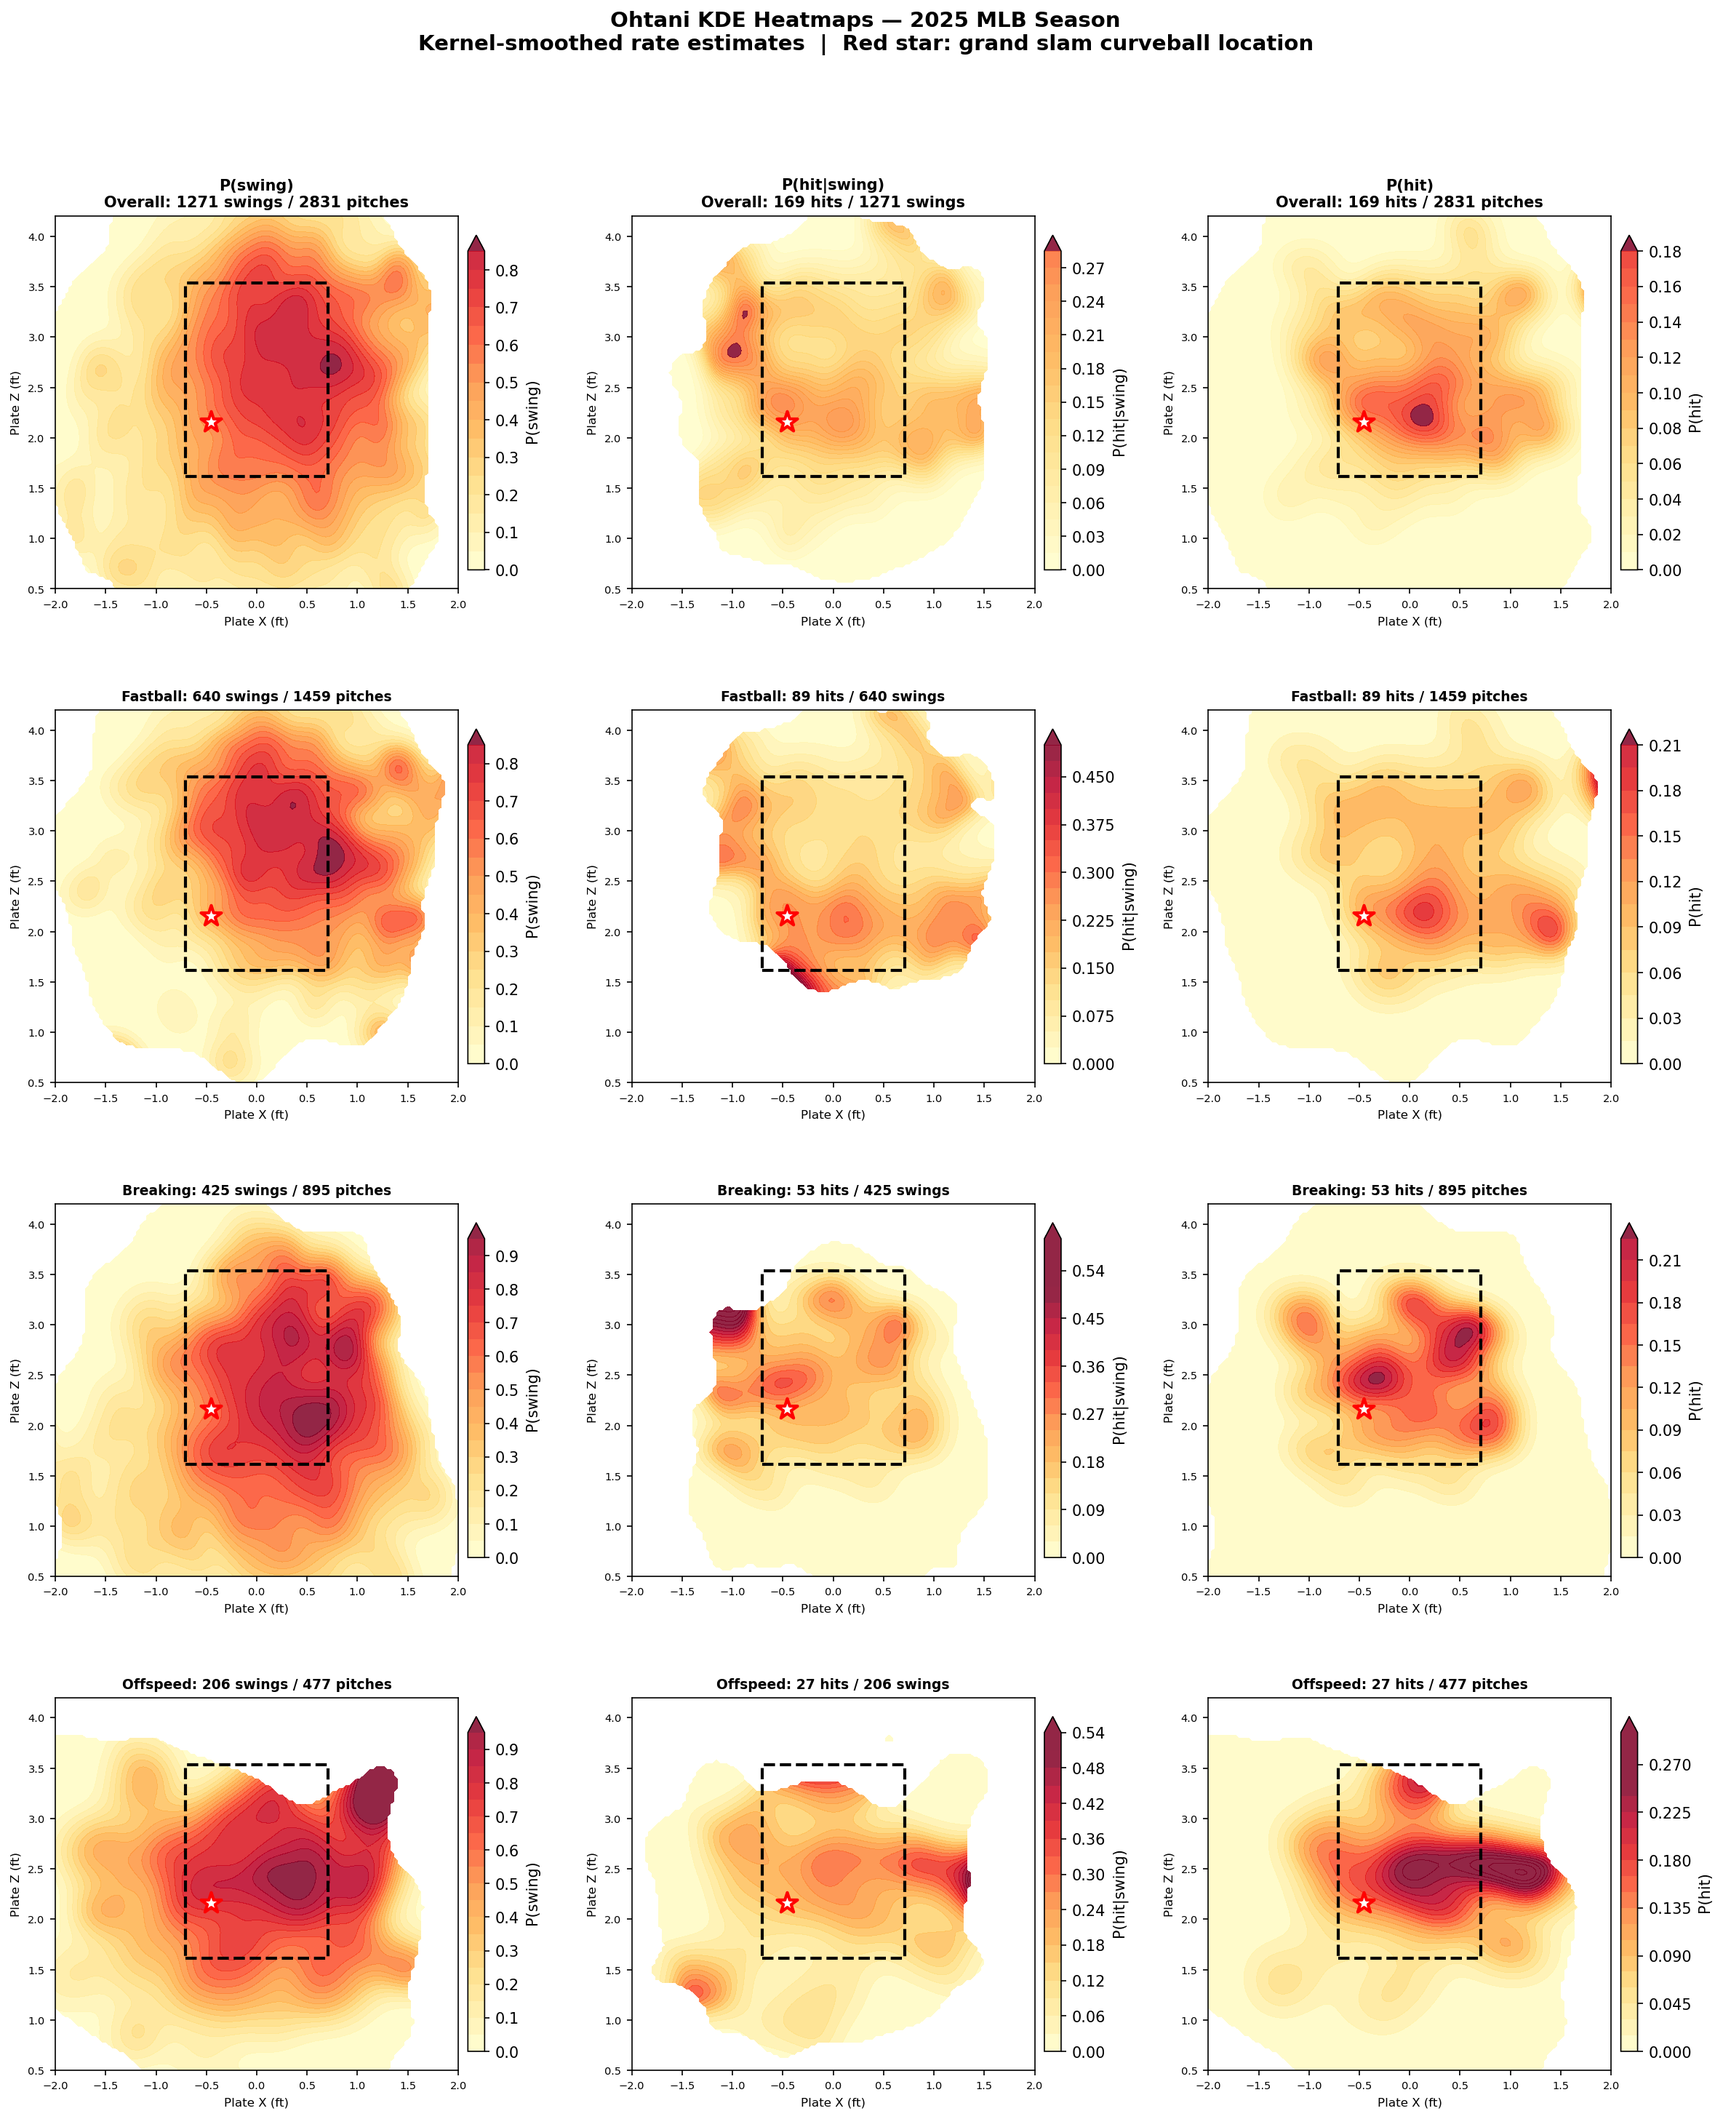
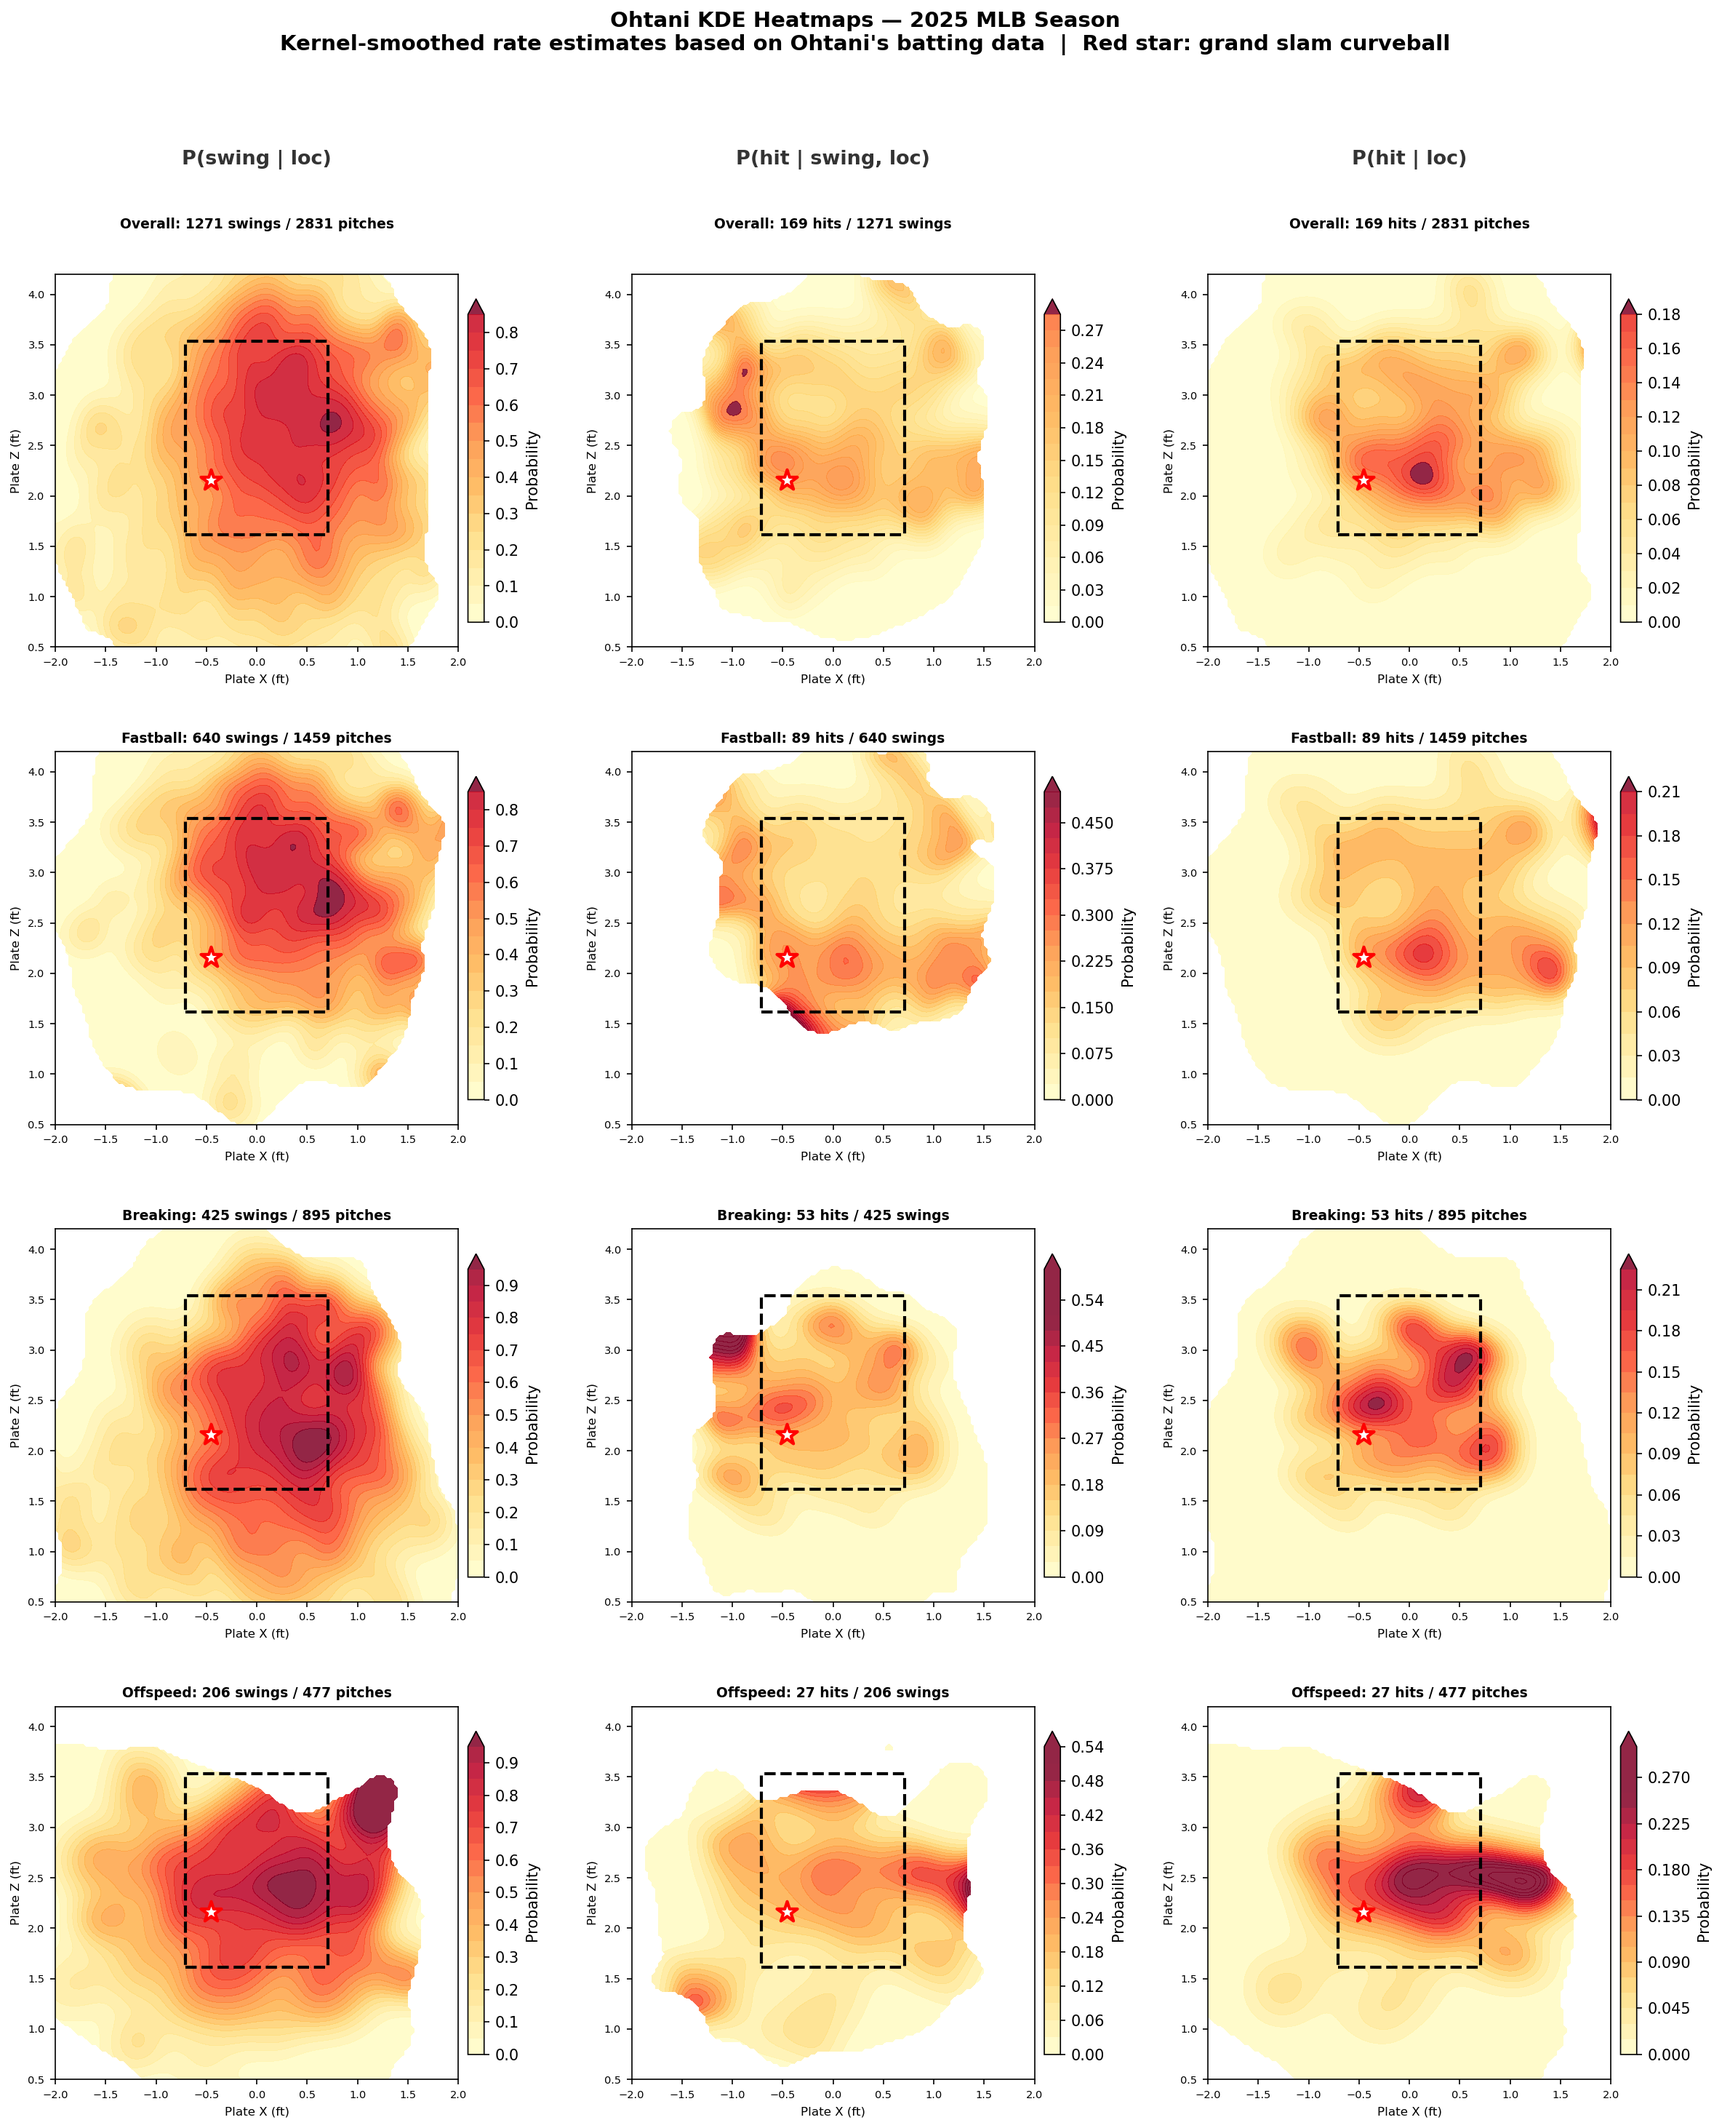
Update KDE heatmap and descriptions to use location-conditional notation
Column headers now read P(swing|loc), P(hit|swing,loc), P(hit|loc) to
clarify these are location-only empirical rates, distinct from the full
model predictions that incorporate speed, spin, movement, and count.

diff --git a/_portfolio/portfolio-98-baseball-jpn.md b/_portfolio/portfolio-98-baseball-jpn.md
@@ -89,16 +89,16 @@ collection: portfolio
 
 <img src="/images/jpn_ohtani_kde_heatmap.png" alt="Ohtani KDE Heatmaps — P(swing), P(hit|swing), P(hit) by Pitch Type" style="width: 100%; max-width: 900px; border-radius: 8px; box-shadow: 0 4px 15px rgba(0,0,0,0.2); margin: 20px 0;">
 
-<p style="color: #666; font-size: 0.95em;">Kernel-smoothed rate estimates from Ohtani's 2025 MLB season. Each row is a pitch category (Overall, Fastball, Breaking, Offspeed); each column is a probability component. <strong>Left: P(swing)</strong> — where Ohtani offers. <strong>Middle: P(hit|swing)</strong> — where contact is dangerous. <strong>Right: P(hit) = P(swing) × P(hit|swing)</strong> — the combined danger. The red star marks Cheng's grand slam curveball (pX=−0.46, pZ=2.16).</p>
+<p style="color: #666; font-size: 0.95em;">Kernel-smoothed rate estimates based on Ohtani's 2025 MLB batting data, conditioned on <em>location only</em>. Each row is a pitch category (Overall, Fastball, Breaking, Offspeed); each column is a probability component. <strong>Left: P(swing | loc)</strong> — where Ohtani offers. <strong>Middle: P(hit | swing, loc)</strong> — where contact is dangerous given a swing. <strong>Right: P(hit | loc)</strong> — the combined danger at each location. The red star marks Cheng's grand slam curveball (pX=−0.46, pZ=2.16).</p>
 
 <div style="background: #eff6ff; border: 2px solid #2563eb; padding: 20px; border-radius: 10px; margin: 20px 0;">
   <h4 style="color: #1e3a5f; margin-top: 0;">What the KDE tells us about Cheng's curveball location</h4>
-  <p style="line-height: 1.7;">Looking at the <strong>Breaking ball row</strong> (3rd row), the grand slam curveball landed in a zone with <strong>moderate P(swing)</strong> and <strong>relatively low P(hit|swing)</strong>. The combined P(hit) at this location is not in a hot zone — Cheng placed the pitch in a reasonable location. The high-danger zones for breaking balls concentrate in the middle-inside region and up in the zone; Cheng's curveball was slightly away from these.</p>
+  <p style="line-height: 1.7;">Looking at the <strong>Breaking ball row</strong> (3rd row), the grand slam curveball landed in a zone with <strong>moderate P(swing | loc)</strong> and <strong>relatively low P(hit | swing, loc)</strong>. The combined P(hit | loc) at this location is not in a hot zone — Cheng placed the pitch in a reasonable location. The high-danger zones for breaking balls concentrate in the middle-inside region and up in the zone; Cheng's curveball was slightly away from these.</p>
 </div>
 
 ### The Grand Slam Pitch: Model Verdict
 
-<p style="color: #666; font-size: 0.95em; margin-bottom: 5px;">The KDE heatmaps above show location-only patterns. To evaluate the <em>specific</em> grand slam pitch, we feed its full profile — location, speed, spin rate, movement, and count — into the RF and GBM models:</p>
+<p style="color: #666; font-size: 0.95em; margin-bottom: 5px;">The KDE heatmaps above are conditioned on location only. To evaluate the <em>specific</em> grand slam pitch, we feed its full pitching profile — location, speed, spin rate, movement, and count — into the RF and GBM models:</p>
 
 <div style="display: flex; flex-wrap: wrap; gap: 15px; margin: 20px 0;">
   <div style="flex: 1; min-width: 180px; background: #f0fdf4; border: 2px solid #059669; padding: 18px; border-radius: 10px; text-align: center;">
